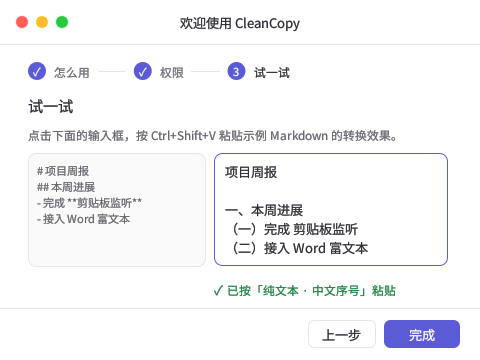
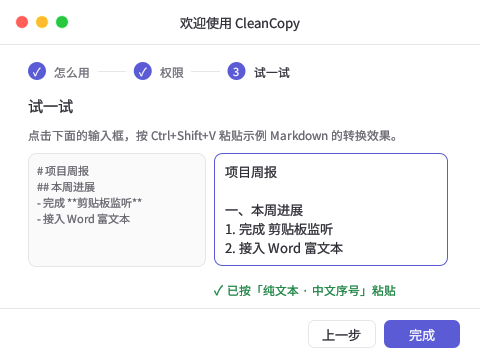
Refresh onboarding screenshots, e2e log and acceptance notes for round v3

Changed region(s): [[0.4688, 0.6111, 0.7812, 0.7028]]

diff --git a/docs/acceptance.md b/docs/acceptance.md
@@ -120,3 +120,15 @@ as part of this change).
 - First launch (config without `onboarding_done`) → daemon spawns `--onboarding`; 完成/跳过 persist the flag; tray 「使用引导…」 reopens it. e2e: `PASS onboarding: …`.
 - Step 3 hotkey inside the input inserts the formatted sample (unit test `hotkey_paste_formats_but_plain_paste_stays_raw`; e2e capture onboarding-3.png).
 - macOS Accessibility (AXIsProcessTrusted / prompt) is cross-compile checked only (aarch64-apple-darwin clippy), never run.
+
+## Round v3 (2026-11-02, UTC+8)
+
+- Onboarding: step 1 key-cap lines 「智能粘贴」/「打开完整菜单」 follow the configured hotkeys; step 3 green ✓ hint under the right box with a 12px gap to the button bar (measured on docs/screenshots/onboarding-3.png: green rows 285–295, bar line 308); detection follows any configured hotkey (`try_step_follows_a_non_v_configured_hotkey`).
+- B-1 idle CPU (40s, release, Xvfb + xfwm4): 116.74% before → 0.25% after (event-driven loop: X11 socket poll + tray waker, 1s idle tick).
+- B-2: 取消 fires on pointer press, works after a single move with no prior hover (`cancel_works_with_single_move_then_click_and_no_prior_hover`).
+- B-3: target badge always painted while converting (`converting_always_paints_the_locked_target_badge`). The reported “Markdown” case was not reproduced; the long-label case failed before the fix.
+- B-4: 「Markdown 原样」 from HTML sources uses ATX headings without closing `#` (`markdown_output_uses_atx_headings_without_closing_hashes`). Only the HTML-source path was affected.
+- Item 3 / O-1: first secondary-menu trigger across fresh launches was 46.0–51.0ms (8 runs, median 48.9). After 60s idle: 44.3/45.4/48.1ms. With 8-core load: median 51.5, max 54.2. The menu maps 1.2–2.1ms into its frame. The 159ms spike was not reproduced.
+- Item 6: Chinese numbering rule, see design.md §7.1 and tests in tests/numbered.rs.
+- Item 7: e2e screenshots go to target/e2e-screenshots by default; `scripts/e2e-desktop.sh --update-screenshots` writes docs/screenshots.
+- e2e: exit 0, 13 PASS lines (docs/desktop-e2e-run.log).
